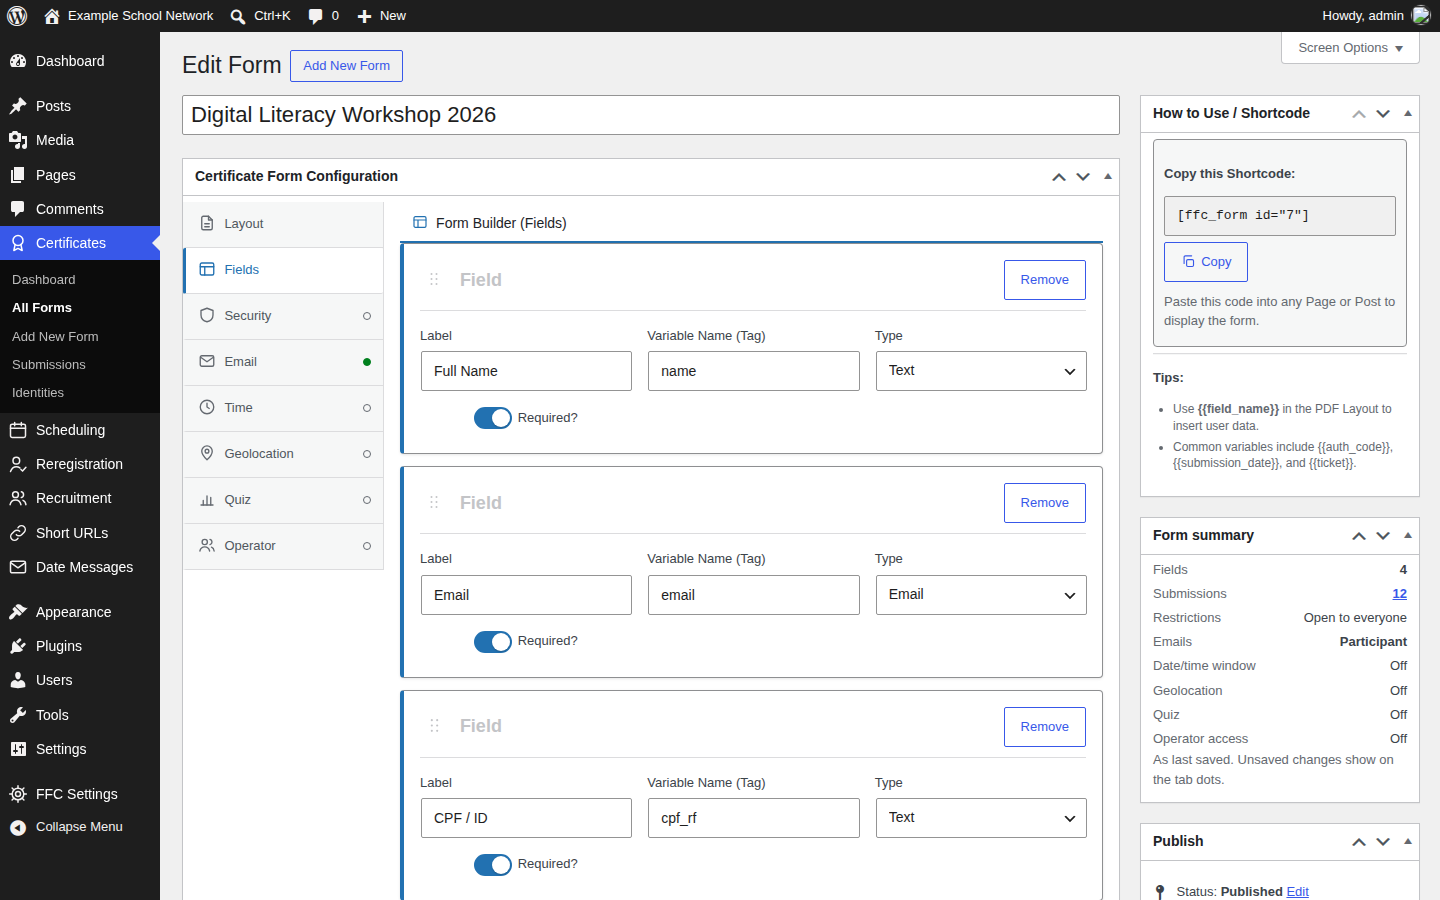
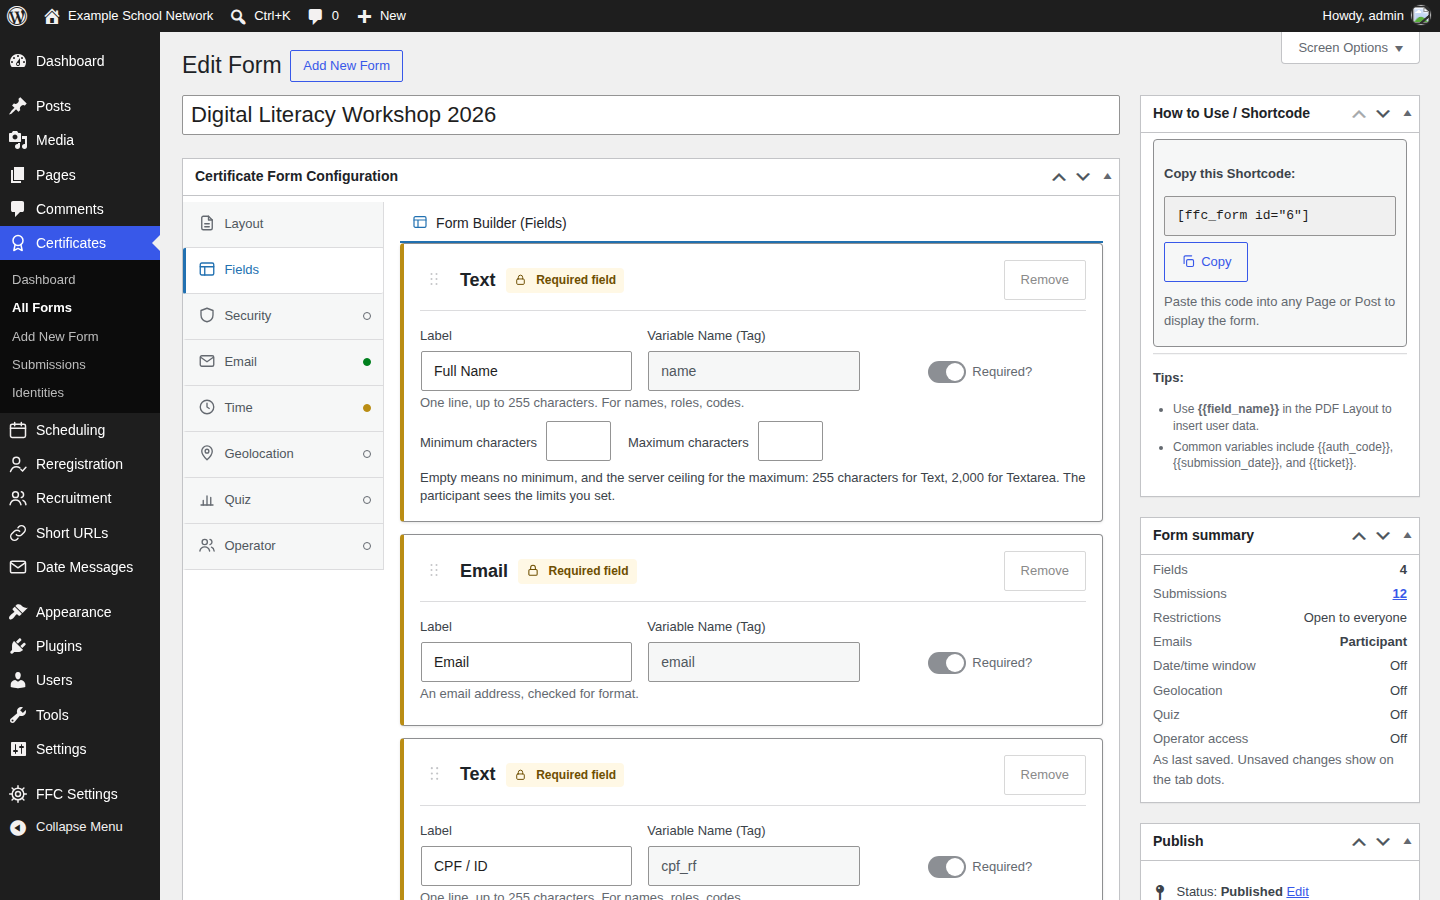
docs(screenshots): refresh the screens this batch changed (#1833)
Re-captured with .github/scripts/screenshots/ against a throwaway
WordPress seeded by seed.php (invented people, example.org addresses,
generated CPFs):

- 02 form builder: fields titled by type, tab status dots (#1755, #1756)
- 04 submissions and 08 appointments: email masked with Reveal (#1822)
- 14 user dashboard: palette, field, button and badge (#1826, #1827)

The other ten shots show no change from this batch and are kept.
capture.mjs still drove Dark Mode with selectOption, which the segmented
control (#1750) no longer offers; it now checks the radio. Filenames
and captions are unchanged in the three readmes.

Claude-Session: https://claude.ai/code/session_018srx5hc431EYmG4MHUr2KA

diff --git a/CHANGELOG.md b/CHANGELOG.md
@@ -25,7 +25,7 @@ The format follows [Keep a Changelog] (https://keepachangelog.com/en/1.1.0/).
 - **Add New on Environments chooses the calendar in view** (#1796, #1801). From a calendar's Environments tab or from the list filtered to one calendar, the new environment's form opens with that calendar selected; an unknown id is ignored and an existing environment keeps its saved calendar.
 - **"Admin bypass" reads naturally in Portuguese** (#1789). Every administrator and manager bypass label now says "Exceção para administradores" (or "gestores") instead of "Burlar do administrador"; the two legacy Scheduling redirects share one query-forwarding helper.
 - **The user dashboard follows the plugin's design** (#1826, #1827). It takes the Public Design font, the palette and the `Core\Icons` registry; it has one text field style, one button family (`.button`, secondary, primary or danger outline) and one status badge (`.ffc-pill`).
-- **Settings → Documentation and the readmes describe this batch** (#1833). The topics and the three readmes now say that personal data starts masked for administrators too, name the PII administrator roles, and cover the Activity Log names, Add New on Environments and the dashboard's look.
+- **Settings → Documentation and the readmes describe this batch** (#1833). The topics and the three readmes now say that personal data starts masked for administrators too, name the PII administrator roles, and cover the Activity Log names, Add New on Environments and the dashboard's look. The screenshots of the form builder, the two lists and the user dashboard are refreshed.
 
 ### Fixed
 
